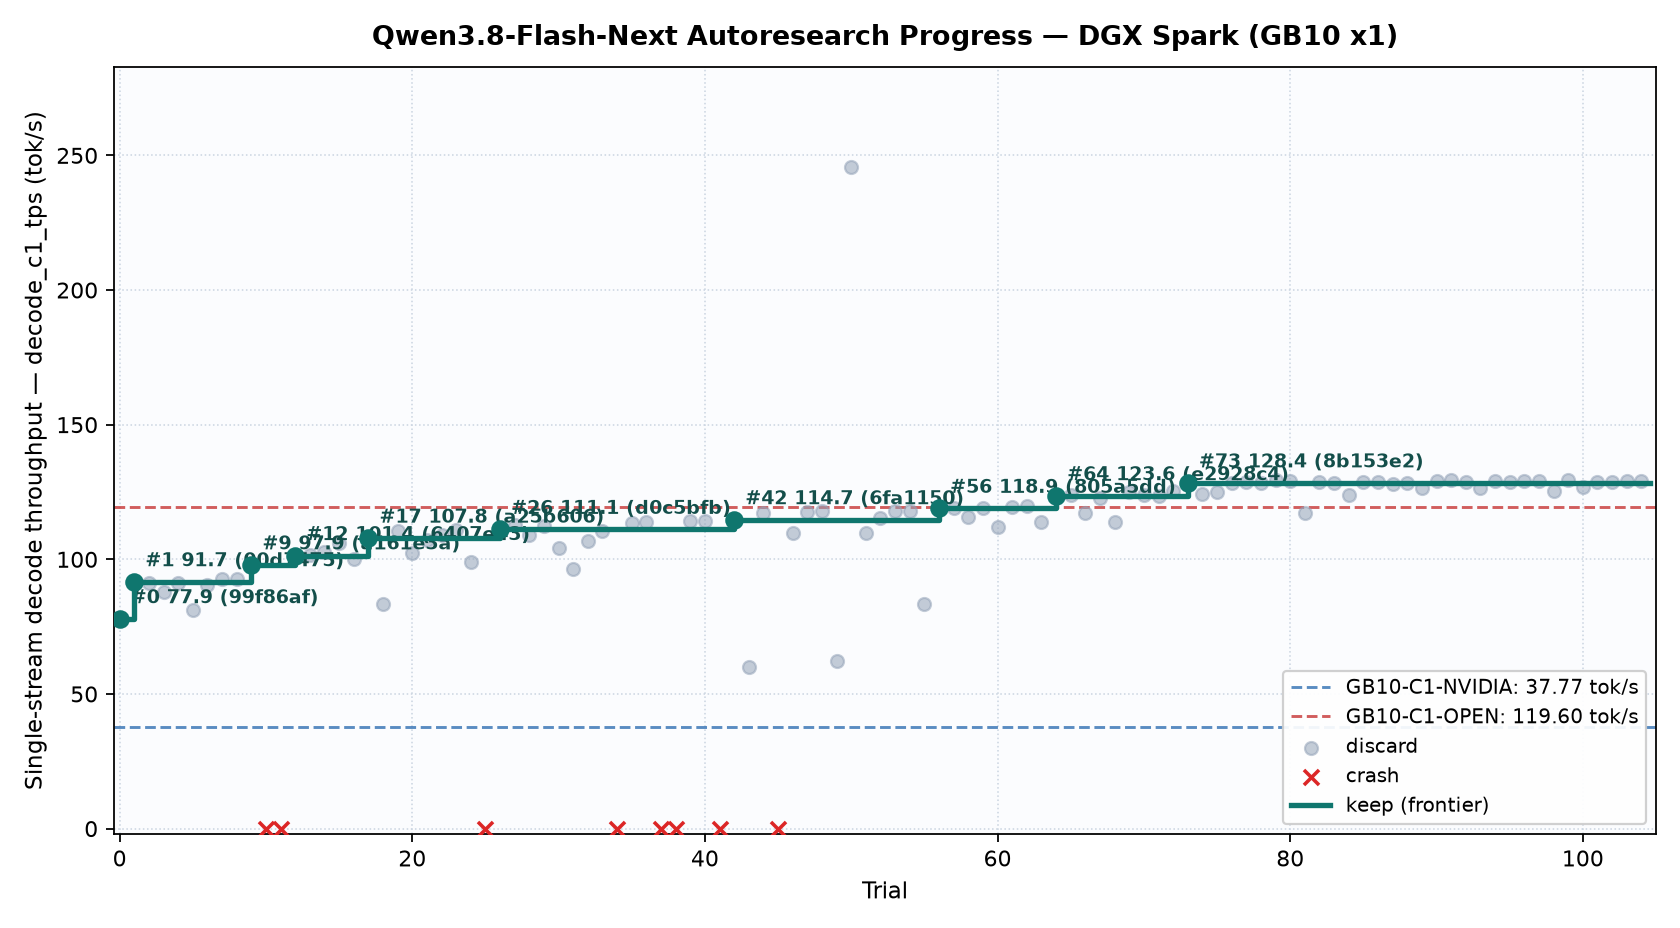
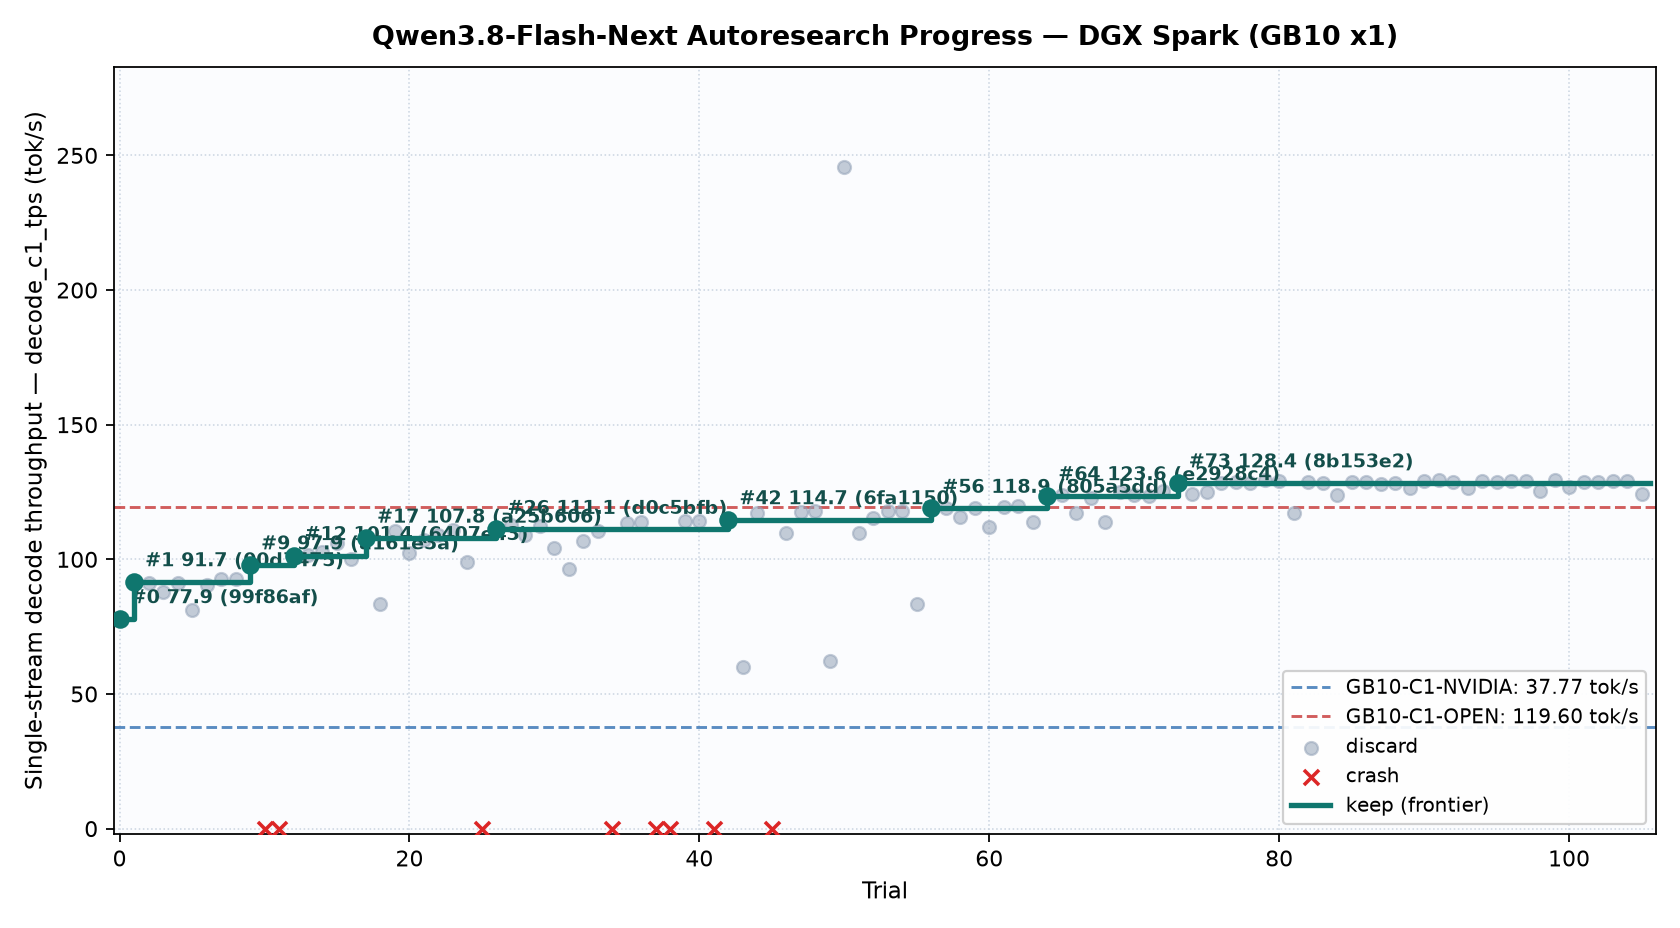
spark trial 105: discard

diff --git a/records/research-log.md b/records/research-log.md
@@ -134,3 +134,4 @@ Deprioritized: **3-bit expert weights** (Hibana +43% but GPQA -0.3, LCB -2.3; on
 | 2026-11-21 17:03 | 102 (new stack) | <https://arxiv.org/html/2611.10469v1> | Six engine feeds checked. SGLang's current DSpark target sharing is DeepSeek-specific. Hibana reports draft speed gains with low-bit proposal logits and rescoring. | Adapt the proposal-only approach to the binary head using group-scaled INT8 activations and DP4A. Trial 101's parallel target scan gained 0.34%. |
 | 2026-11-21 17:11 | 103 (new stack) | <https://github.com/ashhart/TensorFold/blob/v1.2.9/zig/src/core/lanes/root_copy.zig> | Six engine feeds checked. TensorFold's pooled n-gram PR targets shared passes. Trial 102 gained 0.25% with matching hashes. | Use the pinned root-copy scheduler on lone streams with its eight-token suffix gate. Test whether bypassing neural drafting on matched in-request history offsets the scheduler cost. |
 | 2026-11-21 17:16 | 104 (new stack) | <https://github.com/sgl-project/sglang/pull/52046> | Six feeds rechecked. SGLang fuses a Hadamard transform with quantization for KPool on SM120. Trial 103 gained 0.44% C1. | Adapt the basis change to Flash Next proposals. Rotate groups of eight BF16 weights before binary packing and apply the paired transform to draft activations before the dot product. |
+| 2026-11-21 17:25 | 105 (new stack) | <https://github.com/sharar-project/hibana/blob/v0.1.0/hibana/engine/depth.py> | Six engine feeds checked. SGLang's current MXFP4 workspace change targets TRT-LLM. Trial 104 gained 0.70% and matched all hashes. | Adapt cost-aware drafting. After accepting a token, estimate next-step survival from its confidence and end the chain when the estimate falls below the next renewal threshold. |
